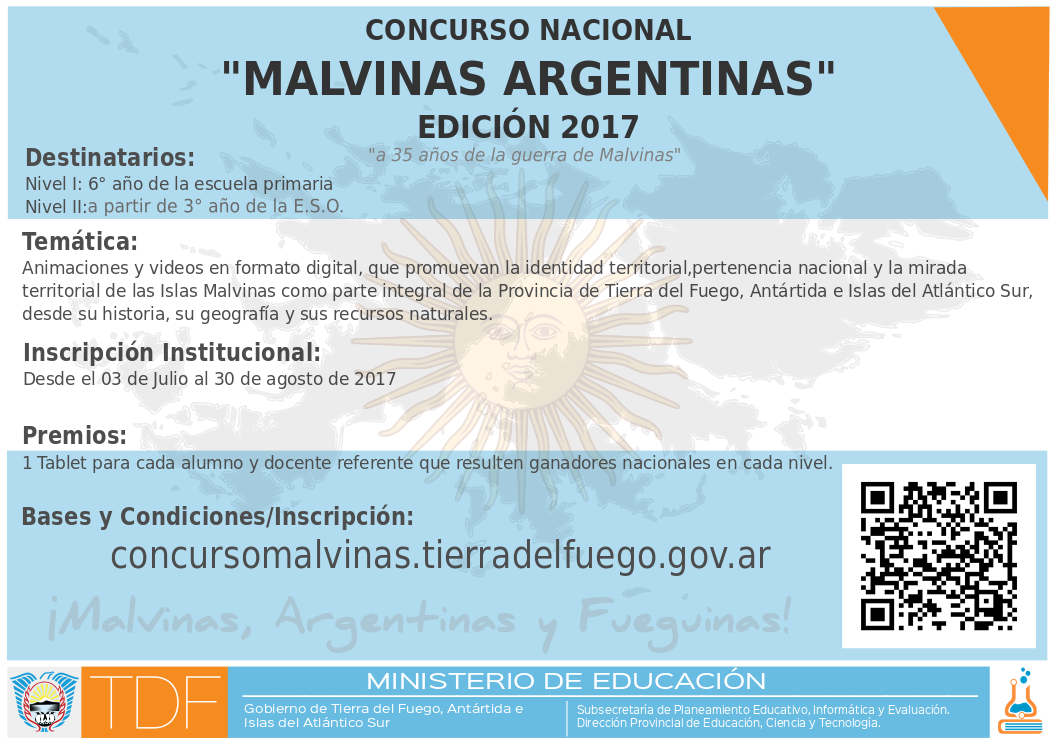
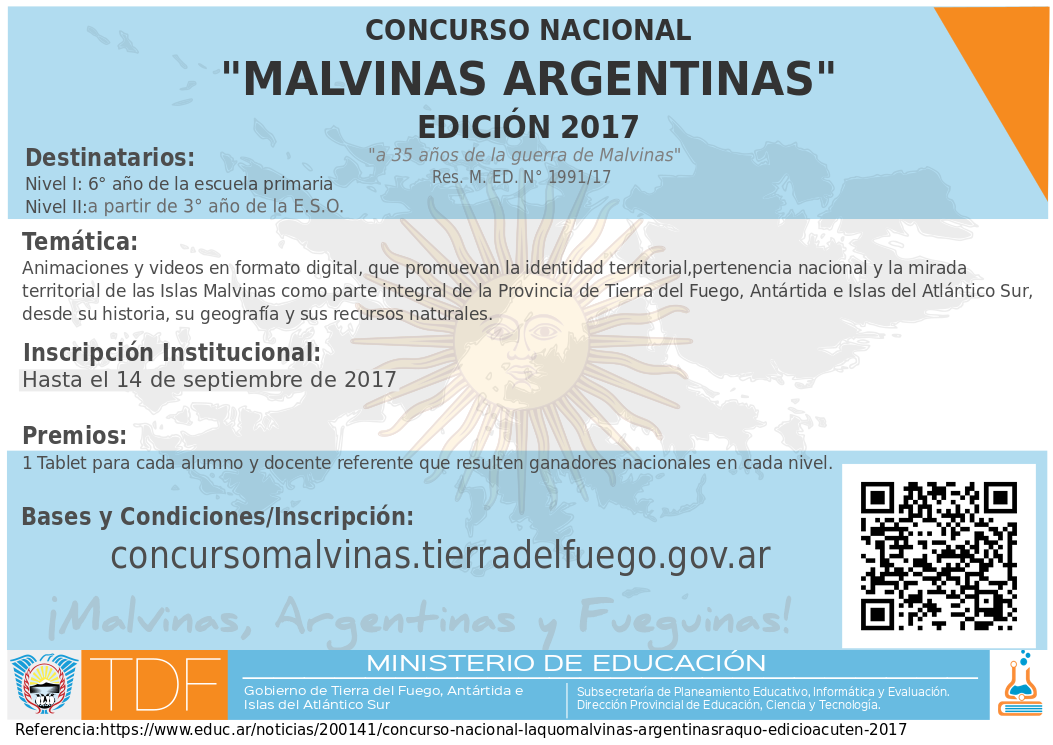
se cambia el reglamento

Changed region(s): [[0.0, 0.8644, 1.0, 1.0], [0.0304, 0.494, 0.3647, 0.5248], [0.3951, 0.2161, 0.5774, 0.247]]

diff --git a/public/index.html b/public/index.html
@@ -101,13 +101,13 @@ en las siguientes categorías:</p>
               <li><span class="glyphicon glyphicon-stats" aria-hidden="true"></span>  Nivel I: último año de la Escuela Primaria.</li>
               <li><span class="glyphicon glyphicon-stats" aria-hidden="true"></span>  Nivel II: a partir de 3° año de la  E.S.O.</li>
             </ul>
-            <p class="intro">Según art. 3.1 (<a href="https://drive.google.com/file/d/0B8Yn5_zDb2sLd0wwdkJ6X1FQR2c/view" target="_blank"> Ver Reglamento</a> ).</p>     
+            <p class="intro">Según art. 3.1 (<a href="https://drive.google.com/file/d/0B6WsUPMm5PNId3VVTHZhMDYwcnRkYmhoR09ZM0tuQzNOa1g0/view" target="_blank"> Ver Reglamento</a> ).</p>     
           </div>
         </div>
         <div class="ceremony-col col-md-4 col-sm-4 col-xs-12">
           <div class="col-inner">
             <img src="assets/images/icon/brujula.png" class="img-responsive iconos"><h4 class="subtitle">Bases y Condiciones</h4>
-            <p class="intro">En el Reglamento (<a href="https://drive.google.com/file/d/0B8Yn5_zDb2sLd0wwdkJ6X1FQR2c/view" target="_blank"> Ver Reglamento</a> ) se encuentran detalladas las bases y las condiciones del concurso, las cuales se deberán leer con especial atención para evitar confusiones o malos entendidos. </p>
+            <p class="intro">En el Reglamento (<a href="https://drive.google.com/file/d/0B6WsUPMm5PNId3VVTHZhMDYwcnRkYmhoR09ZM0tuQzNOa1g0/view" target="_blank"> Ver Reglamento</a> ) se encuentran detalladas las bases y las condiciones del concurso, las cuales se deberán leer con especial atención para evitar confusiones o malos entendidos. </p>
             <p class="intro">Cualquier inquietud deberá remitirse al tutor de este sitio mediante el completamiento del <a href="#" data-toggle="modal" data-target="#consultations-modal">Formulario de Consulta.</a></p>                    
           </div>
         </div>
@@ -121,7 +121,7 @@ en las siguientes categorías:</p>
               <li><span class="glyphicon glyphicon-calendar" aria-hidden="true"></span> Publicación de los ganadores de cada nivel: semana del 30 de Octubre al 10 de noviembre de 2017.</li>
               <li><span class="glyphicon glyphicon-calendar" aria-hidden="true"></span> Entrega de premios: 17 de Noviembre de 2017. Lugar a convenir.</li>
             </ul>
-            <p class="intro">Es importante tener en cuenta que las fechas estipuladas, salvo razones de fuerza mayor, son IMPOSTERGABLES, según Art. 9.7 (<a href="https://drive.google.com/file/d/0B8Yn5_zDb2sLd0wwdkJ6X1FQR2c/view" target="_blank"> Ver Reglamento</a> ). </p>     
+            <p class="intro">Es importante tener en cuenta que las fechas estipuladas, salvo razones de fuerza mayor, son IMPOSTERGABLES, según Art. 9.7 (<a href="https://drive.google.com/file/d/0B6WsUPMm5PNId3VVTHZhMDYwcnRkYmhoR09ZM0tuQzNOa1g0/view" target="_blank"> Ver Reglamento</a> ). </p>     
             <p class="intro">Cualquier modificación al respecto se verá reflejada en el <a href="#" data-toggle="modal" data-target="#calendar-modal">Calendario</a>.</p>
           </div>
         </div>
@@ -140,7 +140,7 @@ en las siguientes categorías:</p>
               <div class="swiper-wrapper">
                 <div class="swiper-slide">
                   <h4 class="subtitle text-center">Secuencias Didácticas Orientadoras</h4>
-                  <p>Aquí se podrán encontrar una serie de secuencias didácticas y recomendaciones correspondientes a cada nivel del concurso. Son sugerencias para trabajar Malvinas incluyendo diferentes recursos y herramientas TIC, de acuerdo a lo establecido en el Reglamento (<a href="https://drive.google.com/file/d/0B8Yn5_zDb2sLd0wwdkJ6X1FQR2c/view" target="_blank"> Ver Reglamento</a> ).</p>
+                  <p>Aquí se podrán encontrar una serie de secuencias didácticas y recomendaciones correspondientes a cada nivel del concurso. Son sugerencias para trabajar Malvinas incluyendo diferentes recursos y herramientas TIC, de acuerdo a lo establecido en el Reglamento (<a href="https://drive.google.com/file/d/0B6WsUPMm5PNId3VVTHZhMDYwcnRkYmhoR09ZM0tuQzNOa1g0/view" target="_blank"> Ver Reglamento</a> ).</p>
                   <p>El docente que desee participar podrá utilizar estas secuencias didácticas tal cual se presentan, modificarlas o no tenerlas en cuenta pero siempre el resultado final debe ser un mural, un corto en stop motion o un video minuto según el nivel en que participe.</p>
                   <hr>
                   <div class="container text-left">  
